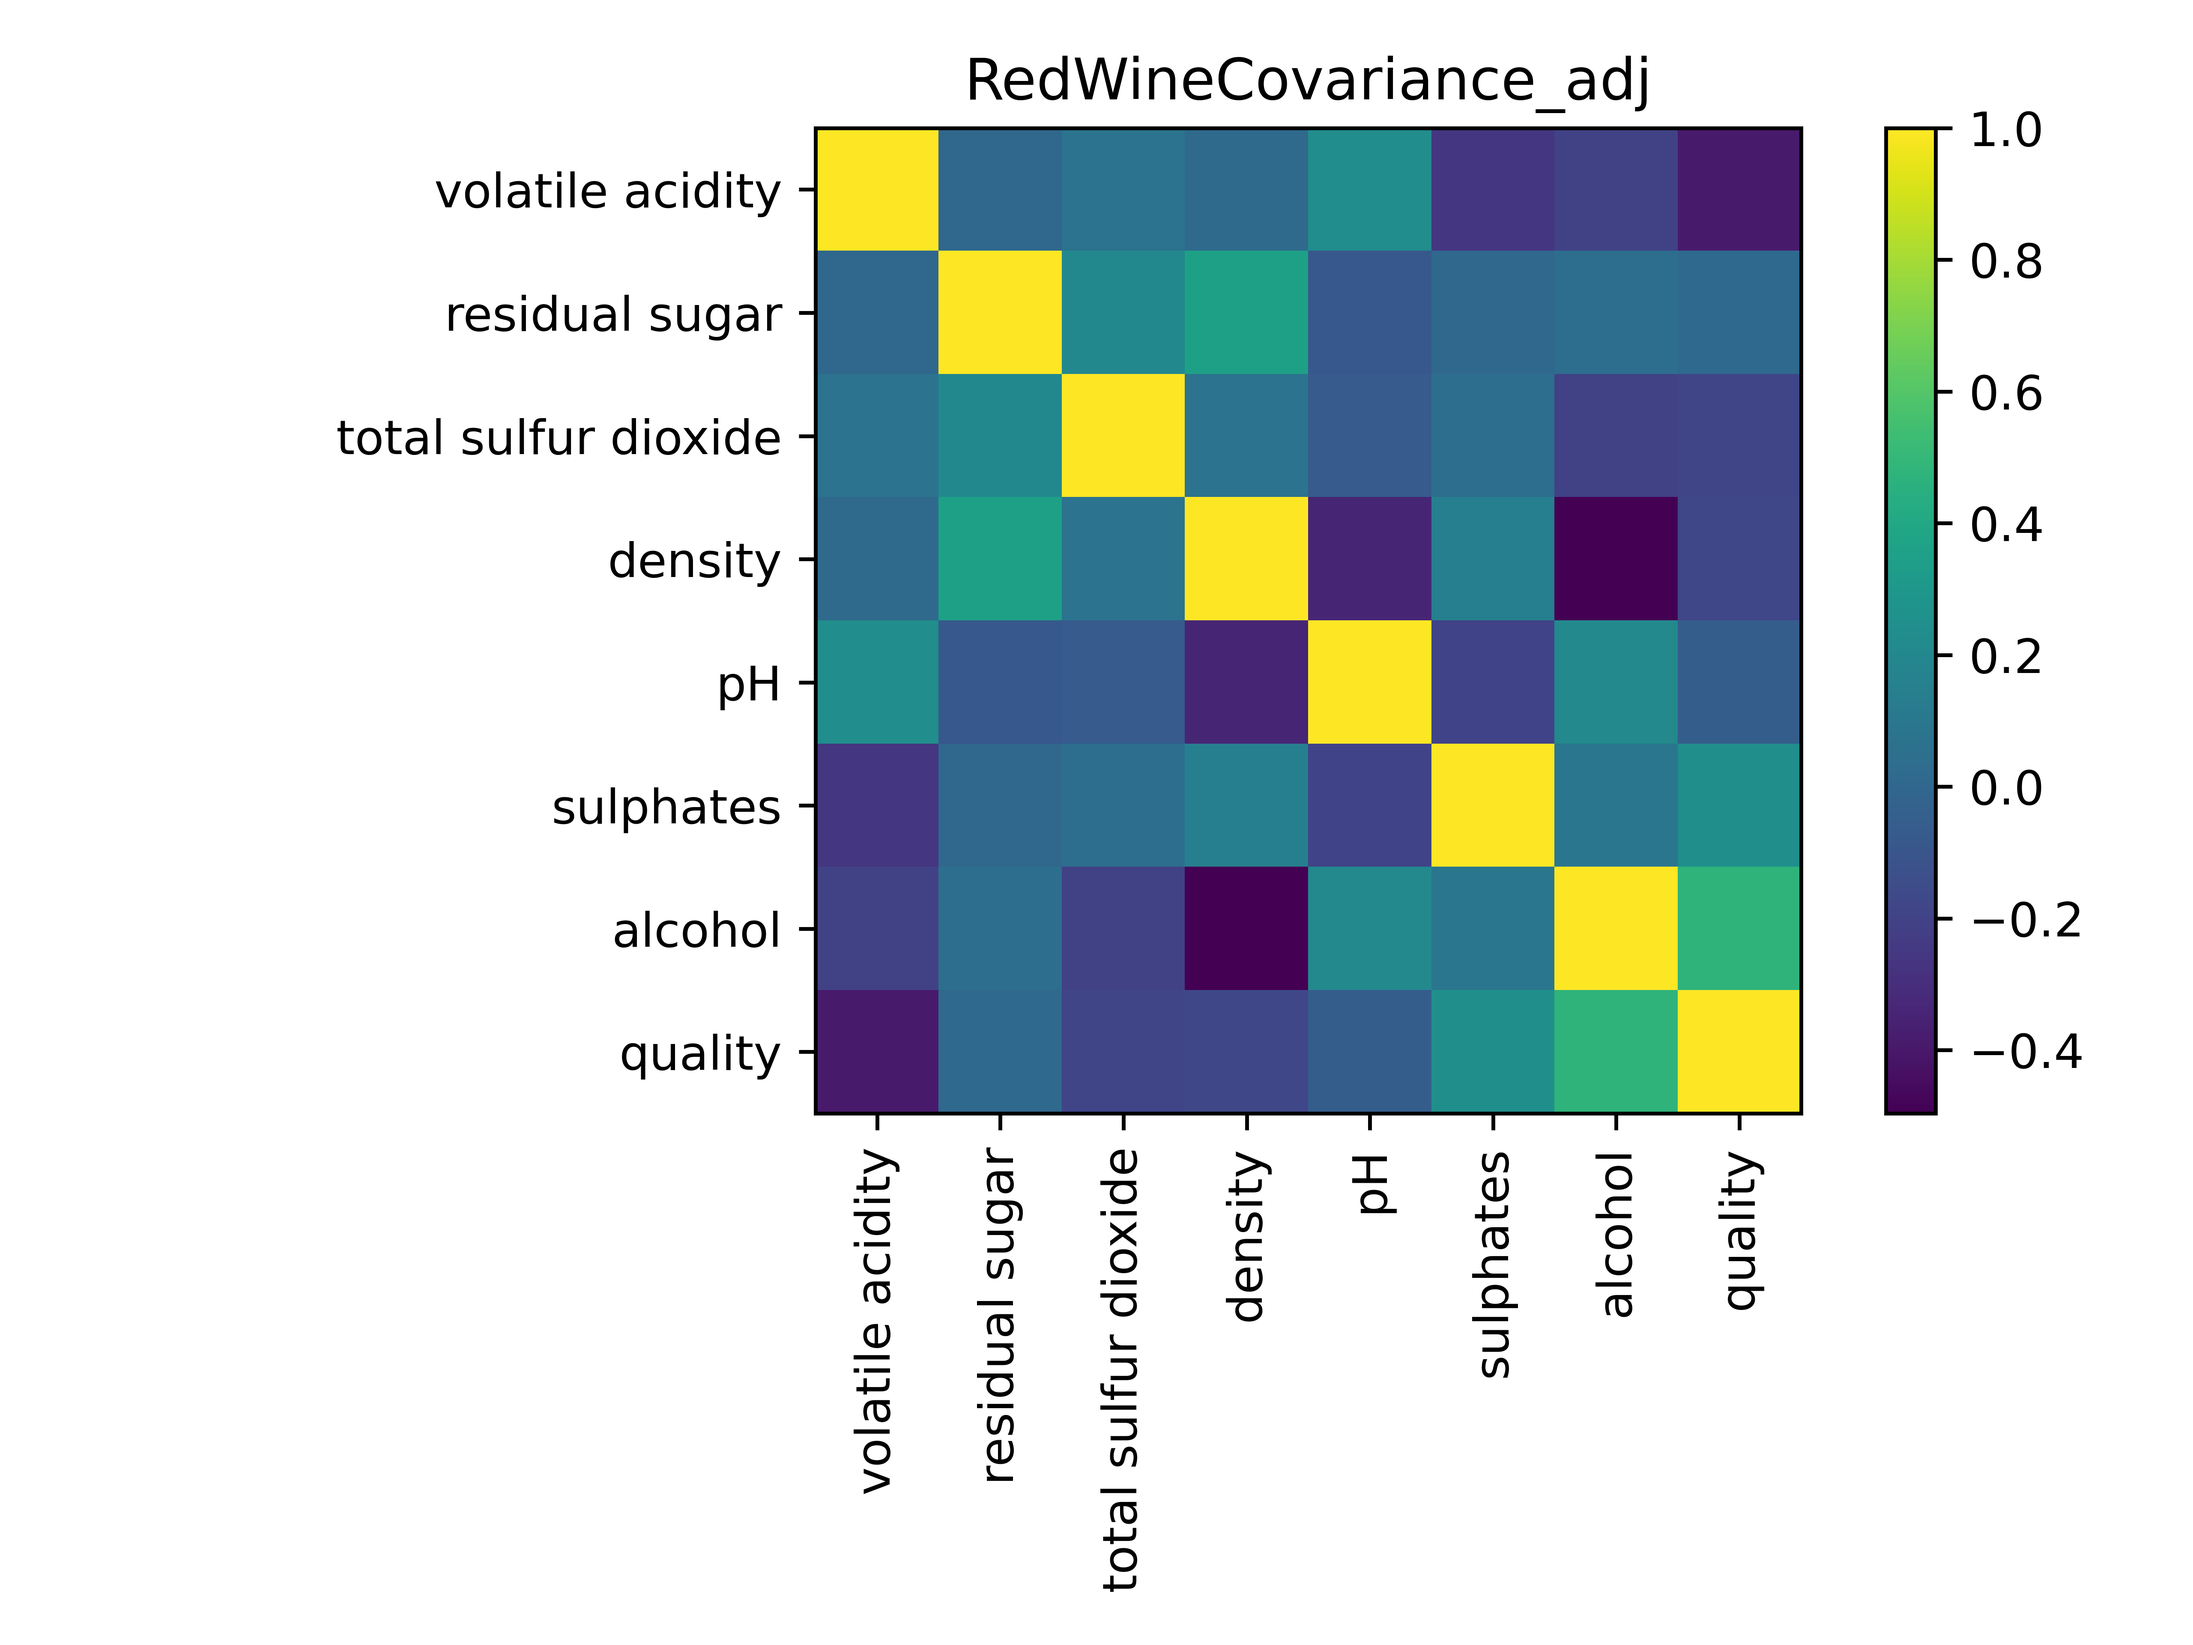
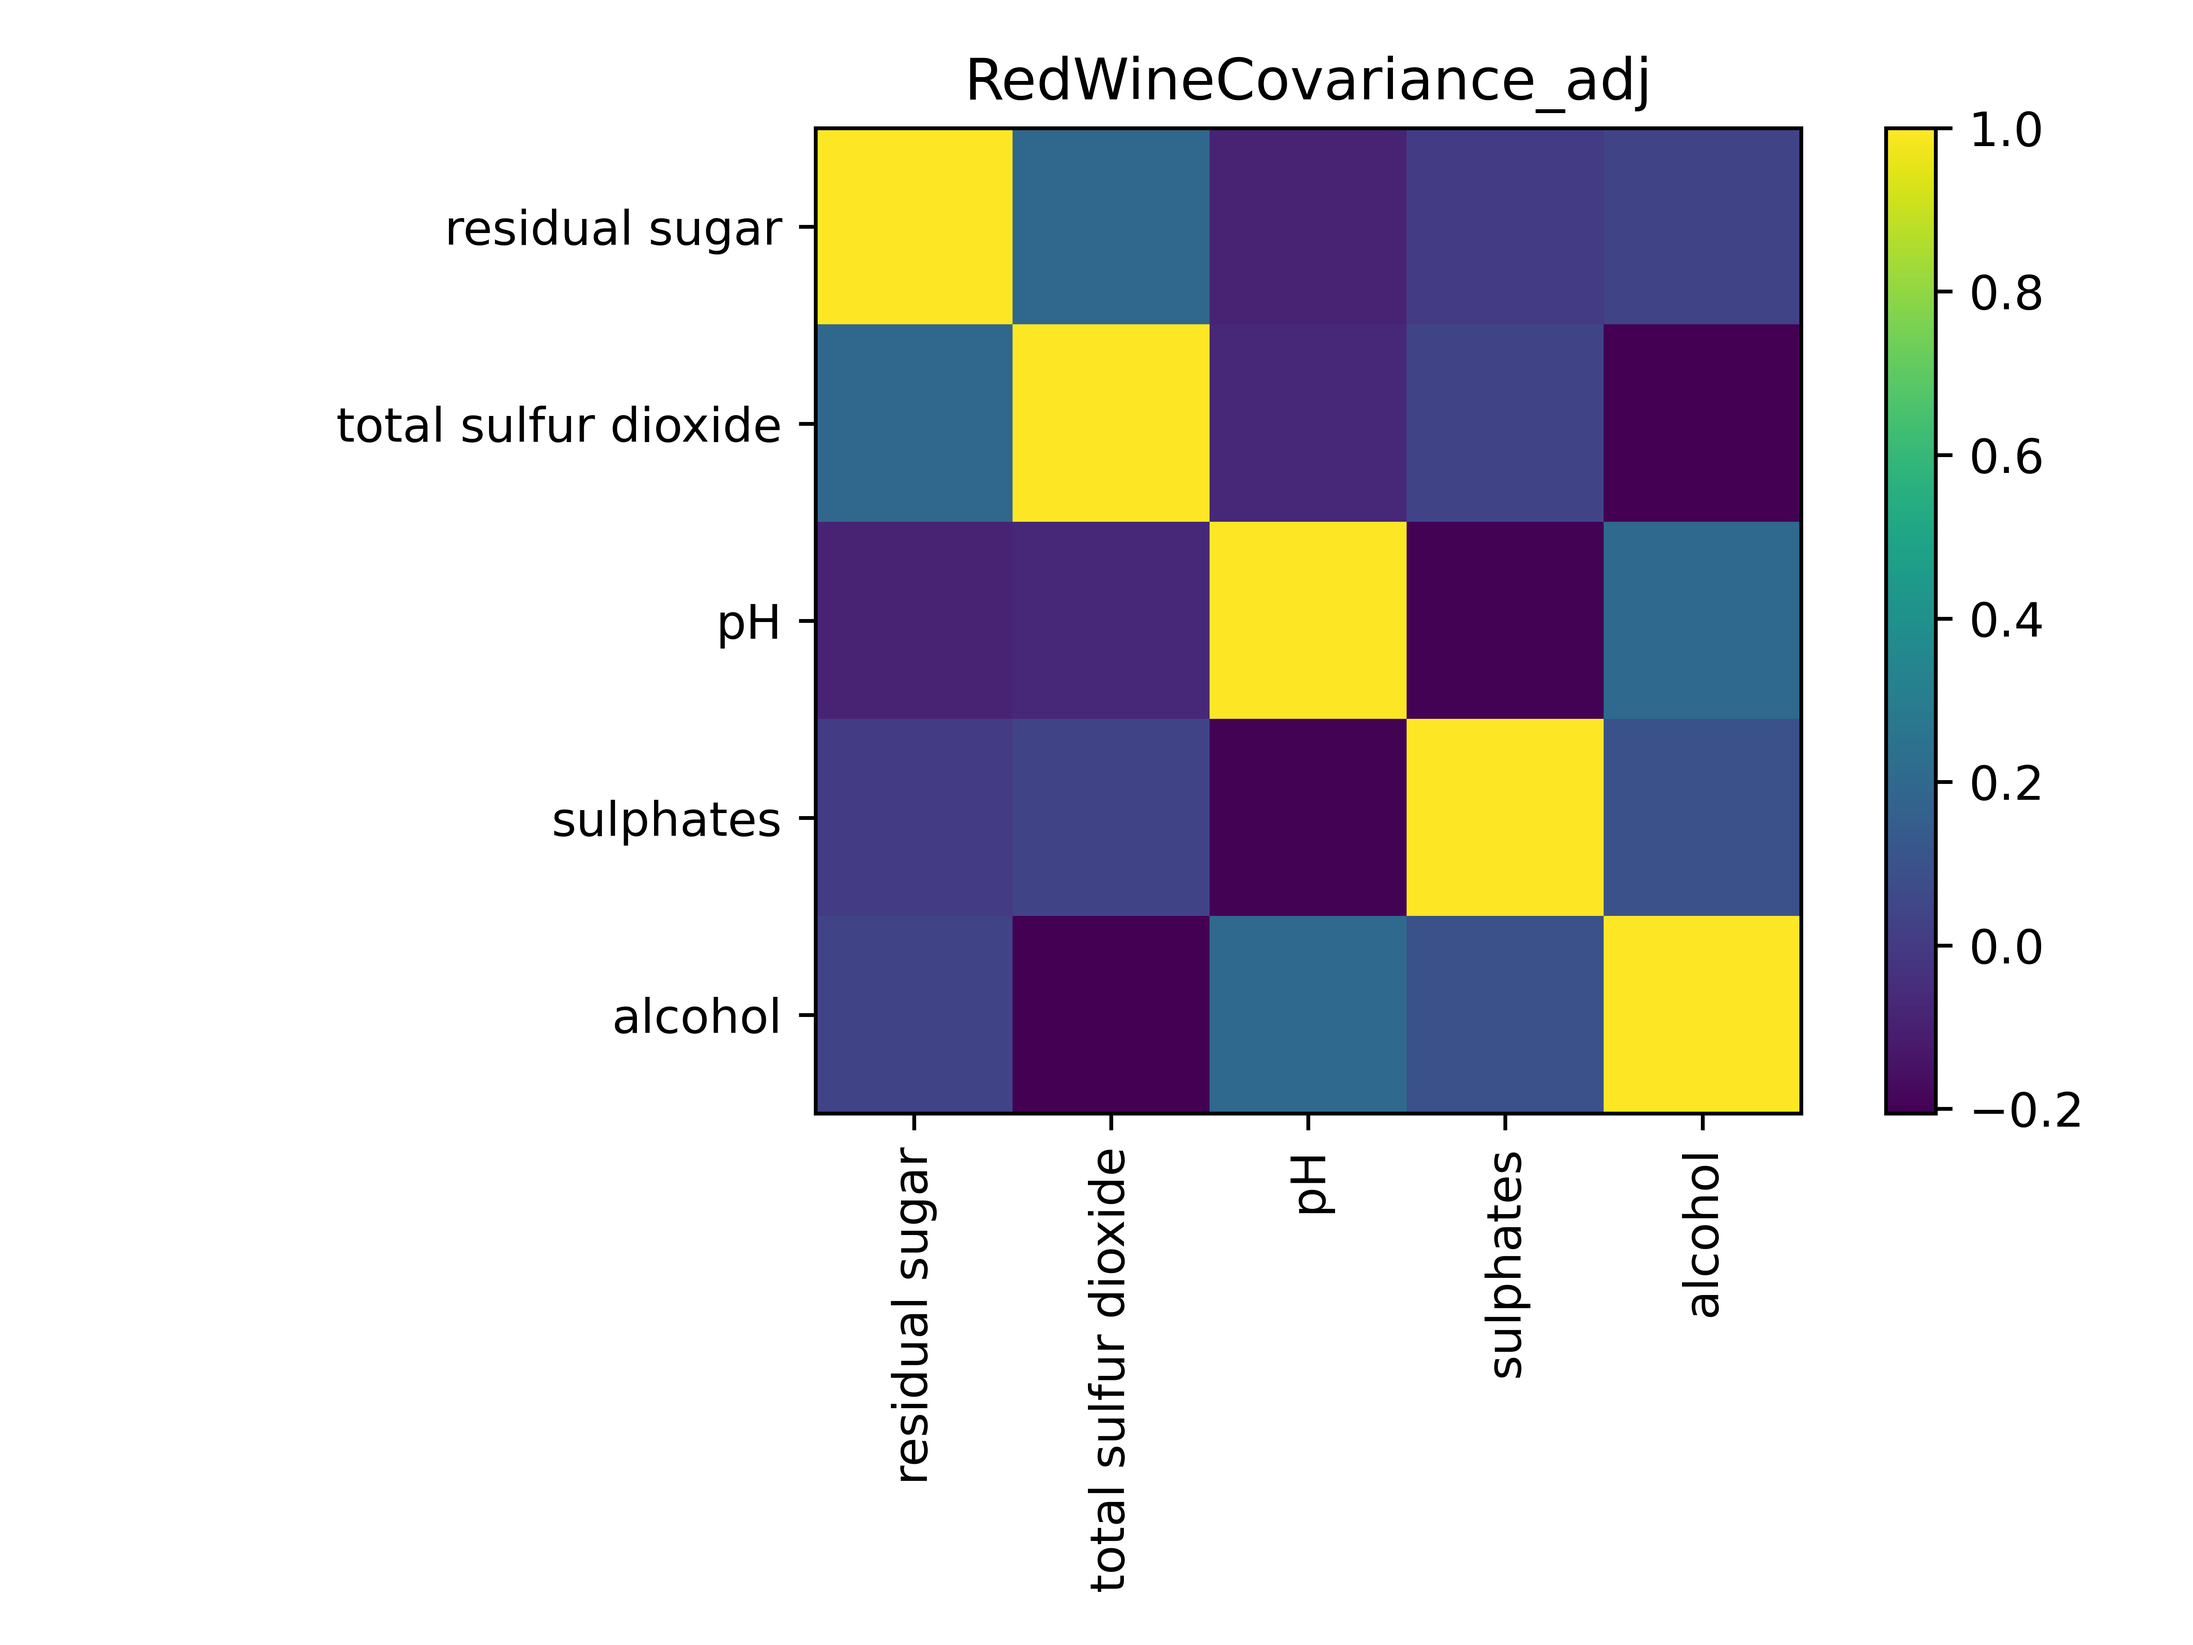
feat: :sparkles: Remove features from red wine

diff --git a/exploration/dim_reduce.py b/exploration/dim_reduce.py
@@ -24,7 +24,7 @@ def combination_scatter(df, folder):
 		plt.savefig(f'./{folder}/{label[1]}_vs_{label[0]}.png', dpi=800)
 		plt.clf()
 
-def cov_heatmap(df, title='heatmap', axis_tilt=0):
+def cov_heatmap(df, title='heatmap', axis_tilt=0, kill_diag=True):
 	cov = df.cov()	
 	labels = cov.columns
 
@@ -71,6 +71,6 @@ df_red_wine = normalize_dataframe(df_red_wine)
 df_white_wine = normalize_dataframe(df_white_wine)
 
 # Plotting Covariance matrix
-cov_heatmap(df_red_wine, "Red Wine Covariance", 90)
-cov_heatmap(df_white_wine, "White Wine Covariance", 90)
+cov_heatmap(df_red_wine.drop(columns=['density', 'free sulfur dioxide', 'citric acid', 'fixed acidity', 'chlorides', 'volatile acidity', 'quality']), "RedWineCovariance_adj", 90)
+#cov_heatmap(df_white_wine, "WhiteWineCovariance", 90)
 

diff --git a/exploration/dim_reduce.md b/exploration/dim_reduce.md
@@ -21,7 +21,12 @@ The following variables are proposed to be removed
 * free sulfur dioxide
 * citric acid
 * fixed acidity
+* Volatile acidity
 * chlorides
+* Density (both alcohol and pH have strong correlations)
+
+I am curious to see if the pH can cover the other three measures of acidity in
+the model.
 
 These changes produce the following covariance matrix
 ![](RedWineCovariance_adj.png)
